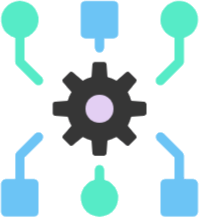
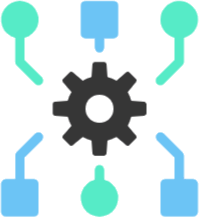
fix(ui): remove old-ground pockets from art (L72-10)
Designer decision 2026-10-27: remove what is left of the old card grounds inside the drawings. Edge flood-fill stays the only global rule; each enclosed pocket is cleared by clearSeededGround from a hand-placed seed (POCKET_SEEDS), with the asset's ground and GROUND_TOLERANCE, and the helper throws on a seed that is not ground. A colour key would also eat eye whites, glints, skulls, the Ghost and the #e6e6e6 parts. defringeEdge then un-blends each pocket's edge like the outer edge.

Removed: Strong Attack diamond, Mirror hanger triangle, Cloning stripes (5), Block disc (2), Reanimation band and crescent, MEGA ATTACK nose and its knife-closed tooth gap, Untouchable lenses (2), Specialist gear hole, Duplicator sliver. Kept as drawing parts: Spy glint, Tax minus, Regeneration plus, blood-drop highlights, an Invisibility glint edge pixel; kept as ambiguous: two 1 px Points Generator residues.

Changed region(s): [[0.4221, 0.4147, 0.5729, 0.5806]]

diff --git a/apps/client/scripts/extract-art.ts b/apps/client/scripts/extract-art.ts
@@ -10,8 +10,10 @@
  * the frame and the printed values, because the catalogs own every number (designer
  * 2026-09-21; spec v7 §5.5: printed values are not authoritative). Ground removal is edge
  * flood-fill only (`art-flood-fill.ts`, which owns `GROUND_TOLERANCE`), never a global color
- * key; the two rings along the cleared region are then un-blended from the same ground so no
- * halo of it is left (`defringeEdge`, fix rounds 1 and 2).
+ * key. The old ground the drawings enclose is cleared from hand-placed seeds, one per pocket
+ * (`POCKET_SEEDS`, designer 2026-10-27, fix round 3). The two rings along every cleared region
+ * are then un-blended from the same ground so no halo of it is left (`defringeEdge`, fix
+ * rounds 1 and 2).
  * Also writes the before/after contact sheet to the gitignored `apps/client/.art-contact-sheet/`
  * for the lot PR.
  */
@@ -34,6 +36,7 @@ import { V7_COLORS } from '../src/ui/palette';
 import {
   GROUND_TOLERANCE,
   clearEdgeGround,
+  clearSeededGround,
   defringeEdge,
   edgeGroundColor,
   type CropRect,
@@ -57,6 +60,31 @@ const CARD_ERASE: Partial<Record<CardId, readonly Box[]>> = {
   roulette: [{ left: 0.58, top: 0.145, right: 0.96, bottom: 0.33 }],
   'super-mirror': [{ left: 0.74, top: 0.8, right: 0.96, bottom: 0.96 }],
 };
+/**
+ * One seed inside each enclosed old-ground pocket, as fractions of the crop box (designer
+ * 2026-10-27: remove what is left of the old card grounds inside the drawings). Found by a
+ * detector over every opaque region within `GROUND_TOLERANCE` of an asset's ground, then
+ * sorted by hand; the regions that are drawing parts (eye glints, the Tax minus, the
+ * Regeneration plus, blood-drop highlights) and the two 1 px Points Generator residues have no
+ * seed. Never a global color key: it would eat those parts, the skulls and the Ghost.
+ */
+const POCKET_SEEDS: Partial<Record<CardId | KitId, readonly { x: number; y: number }[]>> = {
+  'strong-attack': [{ x: 0.522, y: 0.552 }], // diamond between the guards
+  mirror: [{ x: 0.5, y: 0.263 }], // hanger triangle
+  cloning: [
+    { x: 0.699, y: 0.288 }, // upper tail stripe
+    { x: 0.606, y: 0.36 }, // loop stripes, top to bottom
+    { x: 0.5, y: 0.436 },
+    { x: 0.397, y: 0.513 },
+    { x: 0.301, y: 0.582 }, // lower tail stripe
+  ],
+  block: [{ x: 0.403, y: 0.388 }, { x: 0.593, y: 0.529 }], // both halves of the disc
+  reanimation: [{ x: 0.674, y: 0.214 }, { x: 0.5, y: 0.714 }], // band by the brim, crescent under the shoulders
+  'mega-attack': [{ x: 0.5, y: 0.58 }, { x: 0.556, y: 0.677 }], // nose, tooth gap closed by the knife
+  untouchable: [{ x: 0.326, y: 0.696 }, { x: 0.671, y: 0.696 }], // both lenses
+  specialist: [{ x: 0.5, y: 0.516 }], // gear hole
+  duplicator: [{ x: 0.385, y: 0.524 }], // sliver under the arrow
+};
 const EXCLUDED_SOURCE = /\(dead\)|^Draw\.png$|_button\.png$/;
 const IMAGES_DIR = new URL('../../../images/', import.meta.url);
 const ART_DIR = new URL('../src/assets/art/', import.meta.url);
@@ -71,6 +99,7 @@ interface Job {
   readonly source: string;
   readonly box: Box;
   readonly erase: readonly Box[];
+  readonly pockets: readonly { readonly x: number; readonly y: number }[];
 }
 
 interface Extracted {
@@ -84,10 +113,24 @@ const TRANSPARENT = { r: 0, g: 0, b: 0, alpha: 0 } as const;
 /** Every base card in catalog order, then every kit; the 31 + 16 of spec v7 §5.5. */
 function buildJobs(): Job[] {
   const cards = [...ATTACK_CARD_IDS, ...ACTION_CARD_IDS, ...SPECIAL_CARD_IDS].map(
-    (id): Job => ({ id, folder: 'cards', source: CARD_FILES[id].base, box: CARD_BOX, erase: CARD_ERASE[id] ?? [] }),
+    (id): Job => ({
+      id,
+      folder: 'cards',
+      source: CARD_FILES[id].base,
+      box: CARD_BOX,
+      erase: CARD_ERASE[id] ?? [],
+      pockets: POCKET_SEEDS[id] ?? [],
+    }),
   );
   const kits = KIT_IDS.map(
-    (id): Job => ({ id, folder: 'kits', source: KIT_FILES[id], box: KIT_BOX, erase: KIT_ERASE }),
+    (id): Job => ({
+      id,
+      folder: 'kits',
+      source: KIT_FILES[id],
+      box: KIT_BOX,
+      erase: KIT_ERASE,
+      pockets: POCKET_SEEDS[id] ?? [],
+    }),
   );
   if (cards.length !== 31 || kits.length !== 16) {
     throw new Error(`Expected 31 cards and 16 kits, got ${cards.length} and ${kits.length}`);
@@ -161,7 +204,12 @@ async function extract(job: Job): Promise<Extracted> {
   const ground = edgeGroundColor(cropped);
   if (ground === undefined) throw new Error(`${job.id}: no opaque ground on the crop border`);
   const cleared = clearEdgeGround(cropped, { tolerance: GROUND_TOLERANCE });
-  const art = defringeEdge(cleared, { ground, tolerance: GROUND_TOLERANCE });
+  const seeds = job.pockets.map(({ x, y }) => ({
+    x: Math.floor(x * cleared.width),
+    y: Math.floor(y * cleared.height),
+  }));
+  const opened = clearSeededGround(cleared, seeds, { ground, tolerance: GROUND_TOLERANCE });
+  const art = defringeEdge(opened, { ground, tolerance: GROUND_TOLERANCE });
   const bounds = opaqueBounds(art);
   if (bounds === undefined) throw new Error(`${job.id}: nothing left after ground removal`);
   await sharp(art.data, { raw: { width: art.width, height: art.height, channels: 4 } })

diff --git a/apps/client/scripts/art-flood-fill.ts b/apps/client/scripts/art-flood-fill.ts
@@ -1,18 +1,21 @@
 /**
  * Ground removal for the V7 art extraction — technical spec v7 §5.5 (L72-10).
  *
- * The ground is removed by edge flood-fill only, never by a global color key: a light
- * part of a drawing that matches the ground color (a blade highlight, an eye glint, a
- * region enclosed by an outline) survives unless the fill can reach it from the border
- * through ground-colored pixels. `clearEdgeGround` writes only alpha; every color channel
- * is kept.
+ * The ground is removed by edge flood-fill, never by a global color key: a light part of a
+ * drawing that matches the ground color (a blade highlight, an eye glint, a region enclosed by
+ * an outline) survives unless the fill can reach it from the border through ground-colored
+ * pixels. `clearEdgeGround` writes only alpha; every color channel is kept.
  *
- * `defringeEdge` then un-blends the old ground out of the two pixel rings along the cleared
- * region: the opaque pixels next to it (or to the image edge), and the opaque pixels next to
- * those, guarded so a solid fill is never touched. Their anti-aliasing mixed the drawing with
- * the old ground, which reads as a light halo on the V7 dark grounds. It stays edge-based and
- * never reaches past the second ring, so enclosed old-ground regions stay as they are
- * (L72-10 fix rounds 1 and 2, docs/agent/decisions.md 2026-10-26).
+ * `clearSeededGround` then clears the enclosed old-ground pockets the designer asked to remove,
+ * each from a hand-placed seed (designer 2026-10-27, L72-10 fix round 3). It throws on a seed
+ * that is not ground, so it can never erase drawing.
+ *
+ * `defringeEdge` finally un-blends the old ground out of the two pixel rings along every
+ * cleared region: the opaque pixels next to it (or to the image edge), and the opaque pixels
+ * next to those, guarded so a solid fill is never touched. Their anti-aliasing mixed the drawing
+ * with the old ground, which reads as a light halo on the V7 dark grounds. It never reaches past
+ * the second ring (L72-10 fix rounds 1 and 2, docs/agent/decisions.md 2026-10-26 and
+ * 2026-10-27).
  */
 
 /**
@@ -137,6 +140,77 @@ export function clearEdgeGround(image: RgbaImage, options: { readonly tolerance:
  */
 export function edgeGroundColor(image: RgbaImage): Rgb | undefined {
   return groundColor(image, borderPixels(image.width, image.height));
+}
+
+/** A pixel inside an enclosed old-ground pocket, in image coordinates. */
+export interface PocketSeed {
+  readonly x: number;
+  readonly y: number;
+}
+
+/**
+ * Clears the enclosed old-ground pockets that `seeds` sit in (designer 2026-10-27, L72-10 fix
+ * round 3). Edge flood-fill cannot reach a pocket the drawing encloses, and a global color key
+ * would also eat drawing parts that share the ground color (eye whites, skulls, the Ghost), so
+ * each pocket is named by a seed placed by hand. From each seed the fill spreads 4-connected
+ * through the opaque pixels within `tolerance` (Euclidean RGB, inclusive) of `ground` and sets
+ * their alpha to 0. It never crosses a transparent pixel or another color, so it stays inside
+ * the pocket. Only alpha is written, on a copy; the input is untouched.
+ *
+ * Throws when a seed is outside the image, transparent, or not ground within the tolerance: a
+ * misplaced seed must fail loudly instead of erasing drawing.
+ */
+export function clearSeededGround(
+  image: RgbaImage,
+  seeds: readonly PocketSeed[],
+  options: { readonly ground: Rgb; readonly tolerance: number },
+): RgbaImage {
+  const { width, height } = image;
+  const data = new Uint8ClampedArray(image.data);
+  const { ground, tolerance } = options;
+
+  const isGround = (x: number, y: number): boolean => {
+    if (x < 0 || y < 0 || x >= width || y >= height) return false;
+    const offset = (y * width + x) * 4;
+    if ((image.data[offset + 3] ?? 0) === 0) return false;
+    const distance = Math.hypot(
+      (image.data[offset] ?? 0) - ground.r,
+      (image.data[offset + 1] ?? 0) - ground.g,
+      (image.data[offset + 2] ?? 0) - ground.b,
+    );
+    return distance <= tolerance;
+  };
+  for (const seed of seeds) {
+    if (!Number.isInteger(seed.x) || !Number.isInteger(seed.y) || !isGround(seed.x, seed.y)) {
+      throw new Error(`Pocket seed ${seed.x},${seed.y} is not ground within ${tolerance}`);
+    }
+  }
+
+  // Explicit stack, no recursion; each pixel is pushed at most once (marked when pushed).
+  const visited = new Uint8Array(width * height);
+  const stack = new Int32Array(width * height);
+  let top = 0;
+  const push = (x: number, y: number): void => {
+    if (!isGround(x, y) || visited[y * width + x] === 1) return;
+    visited[y * width + x] = 1;
+    stack[top] = y * width + x;
+    top += 1;
+  };
+
+  for (const seed of seeds) push(seed.x, seed.y);
+  while (top > 0) {
+    top -= 1;
+    const pixel = stack[top] ?? 0;
+    data[pixel * 4 + 3] = 0;
+    const x = pixel % width;
+    const y = (pixel - x) / width;
+    push(x - 1, y);
+    push(x + 1, y);
+    push(x, y - 1);
+    push(x, y + 1);
+  }
+
+  return { width, height, data };
 }
 
 /**

diff --git a/apps/client/scripts/art-flood-fill.test.ts b/apps/client/scripts/art-flood-fill.test.ts
@@ -1,7 +1,14 @@
 /** Edge flood-fill ground removal — technical spec v7 §5.5 (L72-10). Enclosed light regions survive. */
 import { describe, expect, it } from 'vitest';
 
-import { GROUND_TOLERANCE, clearEdgeGround, defringeEdge, edgeGroundColor, type RgbaImage } from './art-flood-fill';
+import {
+  GROUND_TOLERANCE,
+  clearEdgeGround,
+  clearSeededGround,
+  defringeEdge,
+  edgeGroundColor,
+  type RgbaImage,
+} from './art-flood-fill';
 
 const PIXELS: Readonly<Record<string, readonly [number, number, number, number]>> = {
   '.': [255, 255, 255, 255], // white card ground
@@ -244,5 +251,49 @@ describe('defringeEdge second ring (technical spec v7 §5.5, L72-10 fix round 2)
     const out = defringeEdge(input, options);
     expect(input.data).toEqual(before);
     expect(out.data).toEqual(withPixels(input, [[3, 3, [40, 40, 40, 128]]]));
+  });
+});
+
+describe('clearSeededGround (designer 2026-10-27, L72-10 fix round 3)', () => {
+  const options = { ground: WHITE, tolerance: 16 } as const;
+  const ISLANDS = ['#########', '#...#...#', '#...#...#', '#########'];
+
+  it('clears the enclosed ground island a seed sits in and nothing else', () => {
+    const input = imageFrom(ISLANDS);
+    const out = clearSeededGround(input, [{ x: 2, y: 1 }], options);
+    expect(alphaMask(out)).toEqual(['111111111', '100011111', '100011111', '111111111']);
+    for (let i = 0; i < out.data.length; i += 4) {
+      expect(out.data.subarray(i, i + 3)).toEqual(input.data.subarray(i, i + 3));
+    }
+  });
+  it('fills every seeded island and is 4-connected, so a diagonal neighbour stays', () => {
+    expect(alphaMask(clearSeededGround(imageFrom(ISLANDS), [{ x: 1, y: 1 }, { x: 7, y: 2 }], options))).toEqual(
+      ['111111111', '100010001', '100010001', '111111111']);
+    expect(alphaMask(clearSeededGround(imageFrom(['#####', '#.###', '##.##', '#####']), [{ x: 1, y: 1 }], options))).toEqual(
+      ['11111', '10111', '11111', '11111']);
+  });
+  it('throws when a seed is not opaque ground within the tolerance', () => {
+    const input = imageFrom(['xxxxx', 'x#..x', 'xxxxx']);
+    expect(() => clearSeededGround(input, [{ x: 1, y: 1 }], options)).toThrow(/not ground/);
+    expect(() => clearSeededGround(input, [{ x: 0, y: 0 }], options)).toThrow(/not ground/);
+    expect(() => clearSeededGround(input, [{ x: 9, y: 1 }], options)).toThrow(/not ground/);
+    expect(() => clearSeededGround(imageFrom(['###', '#g#', '###']), [{ x: 1, y: 1 }], options)).toThrow(/not ground/);
+  });
+  it('returns a new image and leaves the input untouched', () => {
+    const input = imageFrom(ISLANDS);
+    const before = Uint8ClampedArray.from(input.data);
+    const out = clearSeededGround(input, [{ x: 2, y: 1 }], options);
+    expect(out).not.toBe(input);
+    expect(out.data).not.toBe(input.data);
+    expect([out.width, out.height]).toEqual([input.width, input.height]);
+    expect(input.data).toEqual(before);
+  });
+  it('lets defringeEdge un-blend the boundary ring of a cleared pocket', () => {
+    const input = ringImage(['#########', '#########', '##mmmmm##', '##m...m##', '##m...m##', '##mmmmm##', '#########', '#########', '#########']);
+    expect(pixelOf(defringeEdge(input, options), 4, 2)).toEqual([147, 147, 147, 255]);
+    const out = defringeEdge(clearSeededGround(input, [{ x: 4, y: 3 }], options), options);
+    expect(pixelOf(out, 4, 3)[3]).toBe(0);
+    expect(pixelOf(out, 4, 2)).toEqual([40, 40, 40, 128]);
+    expect(pixelOf(out, 2, 4)).toEqual([40, 40, 40, 128]);
   });
 });

diff --git a/docs/agent/decisions.md b/docs/agent/decisions.md
@@ -4793,3 +4793,46 @@ Source: designer ruling 2026-10-26 (via the L72-14 review), `docs/technical_spec
   primitive for every labelled use. On the read-only board the region takes focus.
 
 ---
+
+## 2026-10-27 · [P] V7 art: remove the enclosed old-ground pockets (designer, L72-10 fix round 3)
+
+Source: the designer's contact-sheet review on 2026-10-27, as relayed by the coordinator. The
+designer asked to "remove what is left of the old card grounds inside the drawings" ("retire ce
+qu'il reste des anciens fonds"). This supersedes "enclosed old-ground regions stay" in the
+2026-10-26 entries and in spec v7 §5.5 (now amended).
+
+- **Rule.** Edge flood-fill stays the only global rule. A pocket the edge fill cannot reach is
+  cleared by a targeted seeded fill: `clearSeededGround`
+  (`apps/client/scripts/art-flood-fill.ts`), started from one hand-placed seed per pocket.
+  - The seeds are `POCKET_SEEDS` in `extract-art.ts`, written as fractions of the crop box.
+  - The fill uses the asset's edge ground and `GROUND_TOLERANCE`, is 4-connected, crosses only
+    opaque ground pixels, and writes only alpha.
+  - It throws when a seed is outside the image, transparent, or not ground within the
+    tolerance, so a wrong seed fails instead of erasing drawing.
+  - `defringeEdge` runs afterwards, unchanged. Its rings take every pixel next to alpha 0, so
+    each pocket's edge gets the same two-ring un-blend as the outer edge.
+- **Why seeds, not a color key.** A global key on the ground color would also remove drawing
+  parts that share it: the Spy and Spy-Thief eye whites and glints, the Curse and Gambler
+  skulls, the Ghost, Attack Thief's card, Scientist's flask, the blade highlights and the
+  `#e6e6e6` parts.
+- **How the pockets were found.** A scratch detector listed every opaque 4-connected region
+  within `GROUND_TOLERANCE` of each of the 47 assets' ground: 25 regions in 15 assets. Each was
+  sorted by hand.
+  - **Removed, named by the designer (16 regions, 9 assets):** Strong attack's diamond;
+    Mirror's hanger triangle; the 5 Cloning stripes; Block's two half-discs; the Reanimation
+    band by the hat brim and the crescent under the shoulders; the MEGA ATTACK nose; the
+    Untouchable lenses (2); Specialist's gear hole; the Duplicator sliver.
+  - **Removed, beyond the named list (1 region):** the MEGA ATTACK tooth gap closed by the knife
+    handle. It is the same rounded tooth gap as the one to its left, which the edge fill
+    already cleared.
+  - **Kept as drawing parts (6 regions):** the Spy glint; the Tax minus and the Regeneration plus
+    (drawn white, the same as Upgrade Point Thief's plus on a cream card); the MEGA ATTACK and
+    Assassin blood-drop highlights; a 1 px anti-aliased edge of the Invisibility glint.
+  - **Kept as ambiguous (2 regions):** the two 1 px residues where Points Generator's arrows
+    pinch against the coin. They are listed for the designer.
+- **Known remainder.** Where a pocket meets two drawing colors, the anti-aliasing is wider than
+  the two rings, so a few light pixels remain beyond them. This happens at the ends of the
+  Reanimation shirt's lower edge and at one corner of the MEGA ATTACK tooth gap. It is the same
+  limit as the outer edge's 3-way corners in round 2.
+
+---

diff --git a/docs/agent/frontend.md b/docs/agent/frontend.md
@@ -144,14 +144,18 @@ and are mirrored in `ui/palette.ts` and `ui/motion/motion-tokens.ts`.
   then to `ART_FALLBACK_URL`. The PNGs are generated by
   `pnpm --filter @card-battle/client exec tsx scripts/extract-art.ts` from the
   `ui/asset-files.ts` maps (base drawings only) and are never hand-edited. Ground removal is
-  edge flood-fill only (`scripts/art-flood-fill.ts`), never a global color key, so enclosed
-  old-ground regions stay (designer list in `/DESIGN.md` › Illustrations). `defringeEdge` then
-  un-blends the old ground out of two rings only: the opaque pixels next to the cleared region,
-  and the pixels next to those unless they are a solid fill. So edges show no light halo on
-  dark grounds; `clearEdgeGround` still writes alpha only (fix rounds 1 and 2, `decisions.md`
-  2026-10-26). `GROUND_TOLERANCE` lives in `scripts/art-flood-fill.ts`, and the defringe
-  thresholds derive from it. Printed values are never authoritative: the
-  crop boxes and erase zones drop them, and numbers come from the catalogs. The script also
+  edge flood-fill only (`scripts/art-flood-fill.ts`), never a global color key. Old ground a
+  drawing encloses is cleared by `clearSeededGround` from one hand-placed seed per pocket
+  (`POCKET_SEEDS` in `scripts/extract-art.ts`; designer 2026-10-27, list in `/DESIGN.md` ›
+  Illustrations). The helper throws when a seed is not ground, so a wrong seed cannot erase
+  drawing. A new pocket gets a seed, never a color key. `defringeEdge` then un-blends the old
+  ground out of two rings only: the opaque pixels next to any cleared region (outer edge or
+  pocket), and the pixels next to those unless they are a solid fill. So edges show no light
+  halo on dark grounds; `clearEdgeGround` still writes alpha only (fix rounds 1–3,
+  `decisions.md` 2026-10-26 and 2026-10-27). `GROUND_TOLERANCE` lives in
+  `scripts/art-flood-fill.ts`, and the defringe thresholds derive from it. Printed values are
+  never authoritative: the crop boxes and erase zones drop them, and numbers come from the
+  catalogs. The script also
   writes the before/after contact sheet to the gitignored `apps/client/.art-contact-sheet/`;
   it goes on the lot PR for the designer's sign-off. Old screens keep `getCardArtUrl` /
   `getKitPortraitUrl` until L72-21. A new card or kit = its `ui/asset-files.ts` map entry +

diff --git a/DESIGN.md b/DESIGN.md
@@ -441,12 +441,24 @@ The existing drawings only, never new art (spec v7 §5.5).
   second row is left as drawn. Light parts that sit close to the ground keep their edge as
   drawn (Ghost, the Curse skull, Scientist's flask, Assassin's blade edge, Attack Thief's white
   card, the Spy-Thief hand and eye white, the Reanimation face).
-- **Old ground stays where it is enclosed:** the ground is removed by edge flood-fill only, so
-  a region of card or kit ground that the drawing encloses keeps its color (§5.5): the
-  Untouchable lenses, the Cloning helix stripes, Block's cream disc, the white diamond between
-  Strong attack's guards, Mirror's hanger triangle, the Reanimation crescent and band (under
-  the shoulders, and between the hat brim and the arrow), Specialist's gear hole, the
-  Duplicator lilac sliver and the MEGA ATTACK nose.
+- **No old ground inside a drawing** (designer 2026-10-27): the old ground a drawing encloses
+  is removed and shows the ground through it. Each pocket gets one hand-placed seed
+  (`POCKET_SEEDS` in `scripts/extract-art.ts`), never a global color key, and its edge is
+  un-blended like the outer edge. Pockets removed:
+  - Strong attack's diamond between the guards;
+  - Mirror's hanger triangle;
+  - the Cloning helix stripes (5);
+  - Block's disc (both halves);
+  - the Reanimation band (by the hat brim) and crescent (under the shoulders);
+  - the MEGA ATTACK nose, and its tooth gap closed by the knife;
+  - the Untouchable lenses;
+  - Specialist's gear hole;
+  - the Duplicator sliver under the arrow.
+- **Light parts that share the ground color stay:** the Spy glint, the Tax minus, the
+  Regeneration plus, the MEGA ATTACK and Assassin blood-drop highlights, and the edge of the
+  Invisibility glint.
+- **Kept for the designer to judge:** two 1 px light residues where Points Generator's arrows
+  pinch against the coin.
 - **Sign-off pending:** the designer signs the before/after contact sheet on the Lot 72 PR
   (L72-21) before any screen stops using the old PNGs.
 

diff --git a/docs/technical_spec_v7.md b/docs/technical_spec_v7.md
@@ -333,7 +333,10 @@ L72 adds a one-off script, `apps/client/scripts/extract-art.ts`, run with
 `pnpm --filter @card-battle/client exec tsx scripts/extract-art.ts` (uses `sharp`, §4.5). It
 crops each base card and kit PNG from `images/` to its drawing, removes the frame and the baked
 numbers, and removes the ground **by edge flood-fill only** (never a global color key, so
-light parts of a drawing such as blades or flask highlights survive). Outputs, committed:
+light parts of a drawing such as blades or flask highlights survive). Old ground that a drawing
+encloses, which the edge fill cannot reach, is removed by targeted seeded fills: one
+hand-placed seed per pocket, listed per asset in the script's `POCKET_SEEDS` (designer
+2026-10-27). That is still never a global color key. Outputs, committed:
 `apps/client/src/assets/art/{cards,kits}/<id>.png` — **31 base cards (incl. Roulette) + 16
 kits (incl. Gambler)**. Upgraded / activated variants become code states (§5.4).
 
